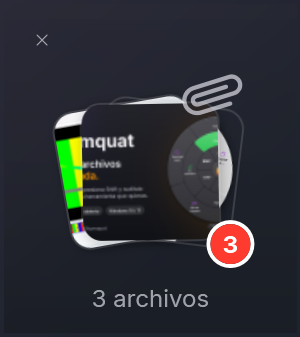
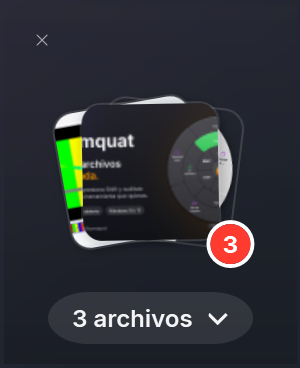
fix(flotar): botón visible para desplegar la lista; sin el clip
No se notaba que la pila se podía abrir: bajo ella había solo un texto gris.
Ahora es un botón con fondo, "3 archivos ⌄", y con la lista abierta arriba
queda "3 archivos ⌃" para ocultarla. Con un solo archivo se muestra su nombre
(no hay nada que desplegar). Se quita el clip decorativo y su ícono.

Changed region(s): [[0.18, 0.2077, 0.87, 0.8012], [0.24, 0.8309, 0.78, 0.9199], [0.12, 0.089, 0.18, 0.1484]]

diff --git a/src/Kumquat.Dialogs/Shelf/ShelfWindow.cs b/src/Kumquat.Dialogs/Shelf/ShelfWindow.cs
@@ -45,6 +45,7 @@ public sealed partial class ShelfWindow : Window
     private readonly Grid _stack = new() { Width = 116, Height = 104, Background = Brushes.Transparent, Cursor = Cursors.Hand, Focusable = true };
     private readonly TextBlock _summary;
     private readonly Button _collapse;
+    private readonly Button _expand;
     private readonly StackPanel _rows = new();
     private readonly ScrollViewer _list;
     private readonly DispatcherTimer _prune;
@@ -87,6 +88,7 @@ public sealed partial class ShelfWindow : Window
         _summary = new TextBlock { FontSize = 12, Foreground = _look.Muted, HorizontalAlignment = HorizontalAlignment.Center, TextTrimming = TextTrimming.CharacterEllipsis, Margin = new Thickness(8, 4, 8, 0) };
         AutomationProperties.SetLiveSetting(_summary, AutomationLiveSetting.Polite);
         _collapse = CollapseButton();
+        _expand = ExpandButton();
         _list = new ScrollViewer { Content = _rows, MaxHeight = 360, VerticalScrollBarVisibility = ScrollBarVisibility.Auto, Margin = new Thickness(0, 6, 0, 0), Visibility = Visibility.Collapsed };
         WireStack();
 
@@ -94,6 +96,7 @@ public sealed partial class ShelfWindow : Window
         panel.Children.Add(TopBar());
         panel.Children.Add(_stack);
         panel.Children.Add(_summary);
+        panel.Children.Add(_expand);
         panel.Children.Add(_list);
         _root = new Border { Background = _look.WindowBackground(Tint()), BorderBrush = Brushes.Transparent, BorderThickness = new Thickness(2), Child = panel };
         Content = _root;
@@ -167,7 +170,7 @@ public sealed partial class ShelfWindow : Window
 
     private Button CollapseButton()
     {
-        var collapse = DialogLook.Pill(string.Empty, Brushes.Transparent, _look.Text);
+        var collapse = DialogLook.Pill(string.Empty, _look.Subtle, _look.Text);
         collapse.FontSize = 12;
         collapse.FontWeight = FontWeights.SemiBold;
         collapse.Height = 24;
@@ -177,6 +180,22 @@ public sealed partial class ShelfWindow : Window
         collapse.HorizontalAlignment = HorizontalAlignment.Center;
         collapse.Click += (_, _) => SetExpanded(false);
         return collapse;
+    }
+
+    /// <summary>Bajo la pila: "3 archivos ⌄", con fondo, para que se vea que la lista se despliega.</summary>
+    private Button ExpandButton()
+    {
+        var expand = DialogLook.Pill(string.Empty, _look.Subtle, _look.Text);
+        expand.FontSize = 12;
+        expand.FontWeight = FontWeights.SemiBold;
+        expand.Height = 26;
+        expand.Padding = new Thickness(12, 0, 12, 0);
+        expand.Margin = new Thickness(0, 8, 0, 0);
+        expand.HorizontalAlignment = HorizontalAlignment.Center;
+        expand.ToolTip = Strings.ShelfStackHelp;
+        AutomationProperties.SetHelpText(expand, Strings.ShelfStackHelp);
+        expand.Click += (_, _) => SetExpanded(true);
+        return expand;
     }
 
     /// <summary>La X para cerrar (los archivos no se tocan) y, con la lista abierta, el botón para ocultarla.</summary>
@@ -280,7 +299,6 @@ public sealed partial class ShelfWindow : Window
         Width = expanded ? ExpandedWidth : CollapsedWidth;
         _list.Visibility = expanded ? Visibility.Visible : Visibility.Collapsed;
         _collapse.Visibility = expanded ? Visibility.Visible : Visibility.Collapsed;
-        _summary.Visibility = expanded ? Visibility.Collapsed : Visibility.Visible;
         Refresh();
     }
 
@@ -405,16 +423,15 @@ public sealed partial class ShelfWindow : Window
     private void Refresh()
     {
         _summary.Text = _contents.Count == 1 ? Path.GetFileName(_contents.Items[0]) : _contents.Summary;
-        _collapse.Content = new StackPanel
-        {
-            Orientation = Orientation.Horizontal,
-            Children =
-            {
-                new System.Windows.Shapes.Path { Data = Geometry.Parse("M0,5 L4.5,0.5 L9,5"), Stroke = _look.Text, StrokeThickness = 1.6, Width = 10, Height = 6, VerticalAlignment = VerticalAlignment.Center, Margin = new Thickness(0, 0, 7, 0) },
-                new TextBlock { Text = _contents.Summary },
-            },
-        };
+        _collapse.Content = WithChevron(_contents.Summary, up: true);
         AutomationProperties.SetName(_collapse, Strings.ShelfCollapse);
+
+        // Cerrada: con un archivo, su nombre; con varios, un botón que se ve que despliega la lista.
+        var several = _contents.Count > 1;
+        _summary.Visibility = !_expanded && !several ? Visibility.Visible : Visibility.Collapsed;
+        _expand.Visibility = !_expanded && several ? Visibility.Visible : Visibility.Collapsed;
+        _expand.Content = WithChevron(_contents.Summary, up: false);
+        AutomationProperties.SetName(_expand, _contents.Summary);
         AutomationProperties.SetName(_stack, _contents.Summary);
         DrawStack();
         if (_expanded)
@@ -423,7 +440,27 @@ public sealed partial class ShelfWindow : Window
         }
     }
 
-    /// <summary>Hasta tres tarjetas un poco giradas, el clip y el número de archivos.</summary>
+    /// <summary>"3 archivos" con una flecha: hacia abajo despliega la lista, hacia arriba la oculta.</summary>
+    private StackPanel WithChevron(string text, bool up) => new()
+    {
+        Orientation = Orientation.Horizontal,
+        Children =
+        {
+            new TextBlock { Text = text, VerticalAlignment = VerticalAlignment.Center },
+            new System.Windows.Shapes.Path
+            {
+                Data = Geometry.Parse(up ? "M0,5 L4.5,0.5 L9,5" : "M0,0.5 L4.5,5 L9,0.5"),
+                Stroke = _look.Text,
+                StrokeThickness = 1.6,
+                Width = 10,
+                Height = 6,
+                VerticalAlignment = VerticalAlignment.Center,
+                Margin = new Thickness(8, 1, 0, 0),
+            },
+        },
+    };
+
+    /// <summary>Hasta tres tarjetas un poco giradas y el número de archivos.</summary>
     private void DrawStack()
     {
         _stack.Children.Clear();
@@ -437,15 +474,6 @@ public sealed partial class ShelfWindow : Window
             card.RenderTransform = new TransformGroup { Children = { new RotateTransform(angles[i]), new TranslateTransform(offsets[i], 0) } };
             _stack.Children.Add(card);
         }
-
-        var clip = DialogLook.Icon("paperclip", 34, _look.Muted);
-        clip.HorizontalAlignment = HorizontalAlignment.Right;
-        clip.VerticalAlignment = VerticalAlignment.Top;
-        clip.Margin = new Thickness(0, -4, 10, 0);
-        clip.RenderTransformOrigin = new Point(0.5, 0.5);
-        clip.RenderTransform = new RotateTransform(28);
-        clip.IsHitTestVisible = false;
-        _stack.Children.Add(clip);
 
         if (_contents.Count > 1)
         {

diff --git a/src/Kumquat.Design/IconPaths.g.cs b/src/Kumquat.Design/IconPaths.g.cs
@@ -39,7 +39,6 @@ public static partial class IconPaths
         ["ocr-pdf"] = "M213.66,82.34l-56-56A8,8,0,0,0,152,24H56A16,16,0,0,0,40,40V216a16,16,0,0,0,16,16H200a16,16,0,0,0,16-16V88A8,8,0,0,0,213.66,82.34ZM160,51.31,188.69,80H160ZM200,216H56V40h88V88a8,8,0,0,0,8,8h48V216Zm-45.54-48.85a36.05,36.05,0,1,0-11.31,11.31l11.19,11.2a8,8,0,0,0,11.32-11.32ZM104,148a20,20,0,1,1,20,20A20,20,0,0,1,104,148Z",
         ["ocr-text"] = "M208,56V88a8,8,0,0,1-16,0V64H136V192h24a8,8,0,0,1,0,16H96a8,8,0,0,1,0-16h24V64H64V88a8,8,0,0,1-16,0V56a8,8,0,0,1,8-8H200A8,8,0,0,1,208,56Z",
         ["pages-to-images"] = "M216,40H72A16,16,0,0,0,56,56V72H40A16,16,0,0,0,24,88V200a16,16,0,0,0,16,16H184a16,16,0,0,0,16-16V184h16a16,16,0,0,0,16-16V56A16,16,0,0,0,216,40ZM72,56H216v62.75l-10.07-10.06a16,16,0,0,0-22.63,0l-20,20-44-44a16,16,0,0,0-22.62,0L72,109.37ZM184,200H40V88H56v80a16,16,0,0,0,16,16H184Zm32-32H72V132l36-36,49.66,49.66a8,8,0,0,0,11.31,0L194.63,120,216,141.38V168ZM160,84a12,12,0,1,1,12,12A12,12,0,0,1,160,84Z",
-        ["paperclip"] = "M209.66,122.34a8,8,0,0,1,0,11.32l-82.05,82a56,56,0,0,1-79.2-79.21L147.67,35.73a40,40,0,1,1,56.61,56.55L105,193A24,24,0,1,1,71,159L154.3,74.38A8,8,0,1,1,165.7,85.6L82.39,170.31a8,8,0,1,0,11.27,11.36L192.93,81A24,24,0,1,0,159,47L59.76,147.68a40,40,0,1,0,56.53,56.62l82.06-82A8,8,0,0,1,209.66,122.34Z",
         ["pause"] = "M200,32H160a16,16,0,0,0-16,16V208a16,16,0,0,0,16,16h40a16,16,0,0,0,16-16V48A16,16,0,0,0,200,32Zm0,176H160V48h40ZM96,32H56A16,16,0,0,0,40,48V208a16,16,0,0,0,16,16H96a16,16,0,0,0,16-16V48A16,16,0,0,0,96,32Zm0,176H56V48H96Z",
         ["pdf"] = "M224,152a8,8,0,0,1-8,8H192v16h16a8,8,0,0,1,0,16H192v16a8,8,0,0,1-16,0V152a8,8,0,0,1,8-8h32A8,8,0,0,1,224,152ZM92,172a28,28,0,0,1-28,28H56v8a8,8,0,0,1-16,0V152a8,8,0,0,1,8-8H64A28,28,0,0,1,92,172Zm-16,0a12,12,0,0,0-12-12H56v24h8A12,12,0,0,0,76,172Zm88,8a36,36,0,0,1-36,36H112a8,8,0,0,1-8-8V152a8,8,0,0,1,8-8h16A36,36,0,0,1,164,180Zm-16,0a20,20,0,0,0-20-20h-8v40h8A20,20,0,0,0,148,180ZM40,112V40A16,16,0,0,1,56,24h96a8,8,0,0,1,5.66,2.34l56,56A8,8,0,0,1,216,88v24a8,8,0,0,1-16,0V96H152a8,8,0,0,1-8-8V40H56v72a8,8,0,0,1-16,0ZM160,80h28.69L160,51.31Z",
         ["play"] = "M232.4,114.49,88.32,26.35a16,16,0,0,0-16.2-.3A15.86,15.86,0,0,0,64,39.87V216.13A15.94,15.94,0,0,0,80,232a16.07,16.07,0,0,0,8.36-2.35L232.4,141.51a15.81,15.81,0,0,0,0-27ZM80,215.94V40l143.83,88Z",

diff --git a/tools/build-design-assets.py b/tools/build-design-assets.py
@@ -51,7 +51,6 @@ ICONS = {
     "show-in-folder": "folder-open",
     "terminal": "terminal-window",
     "float": "push-pin",
-    "paperclip": "paperclip",
     "image": "image-square",
     "audio": "waveform",
     "video": "video-camera",
